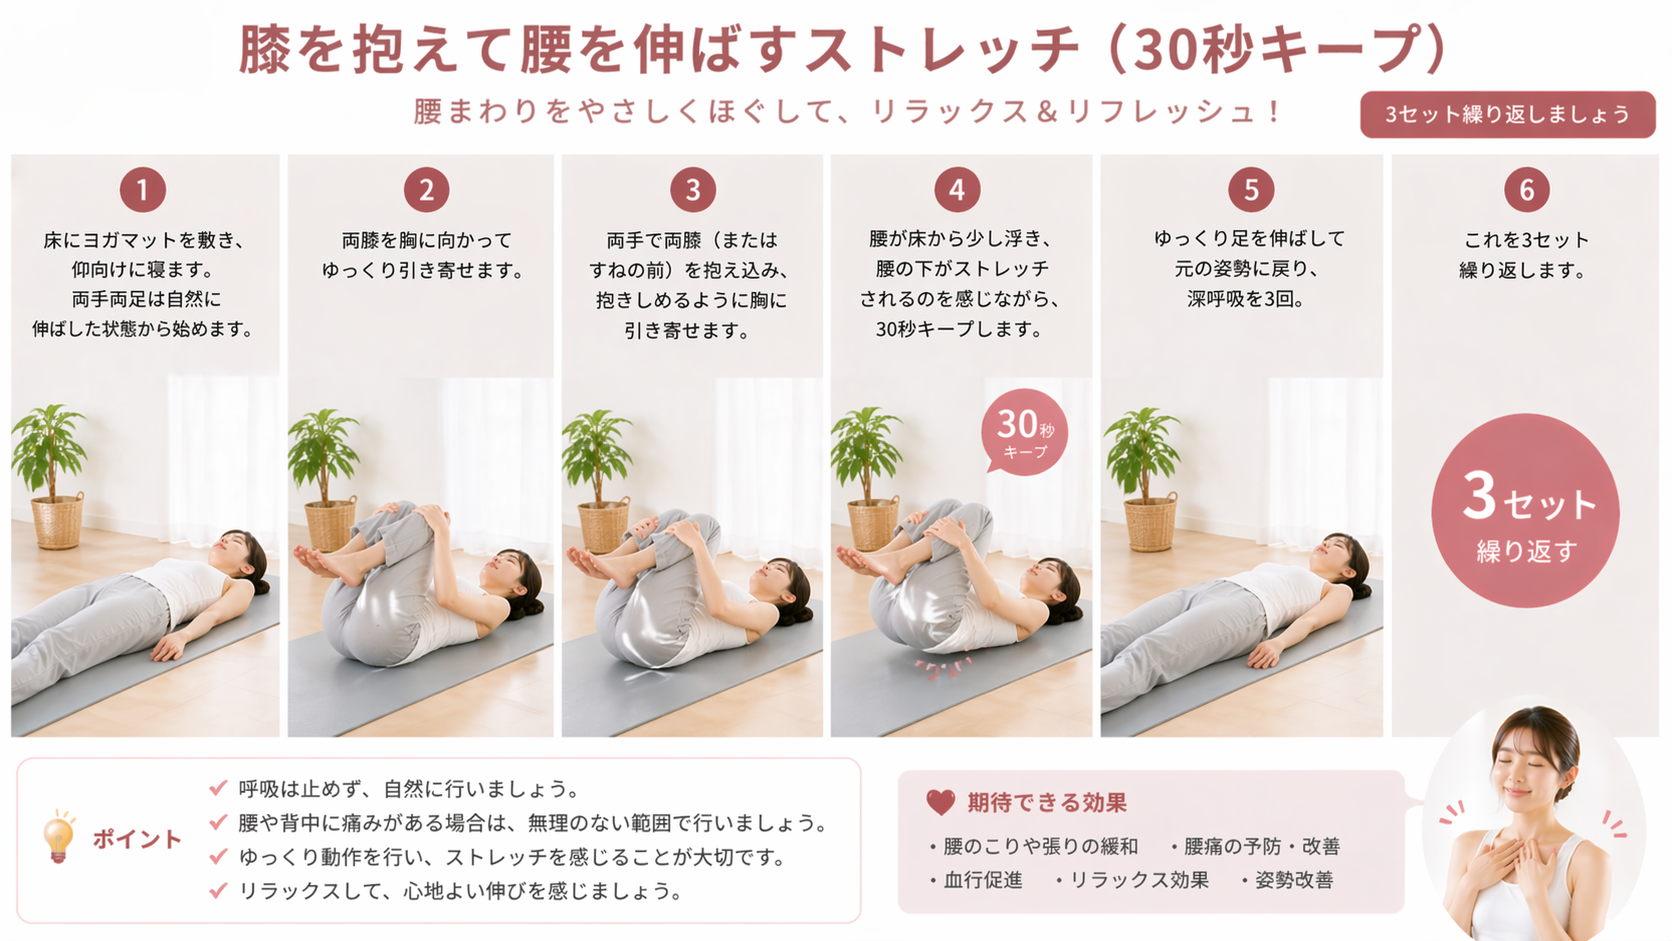
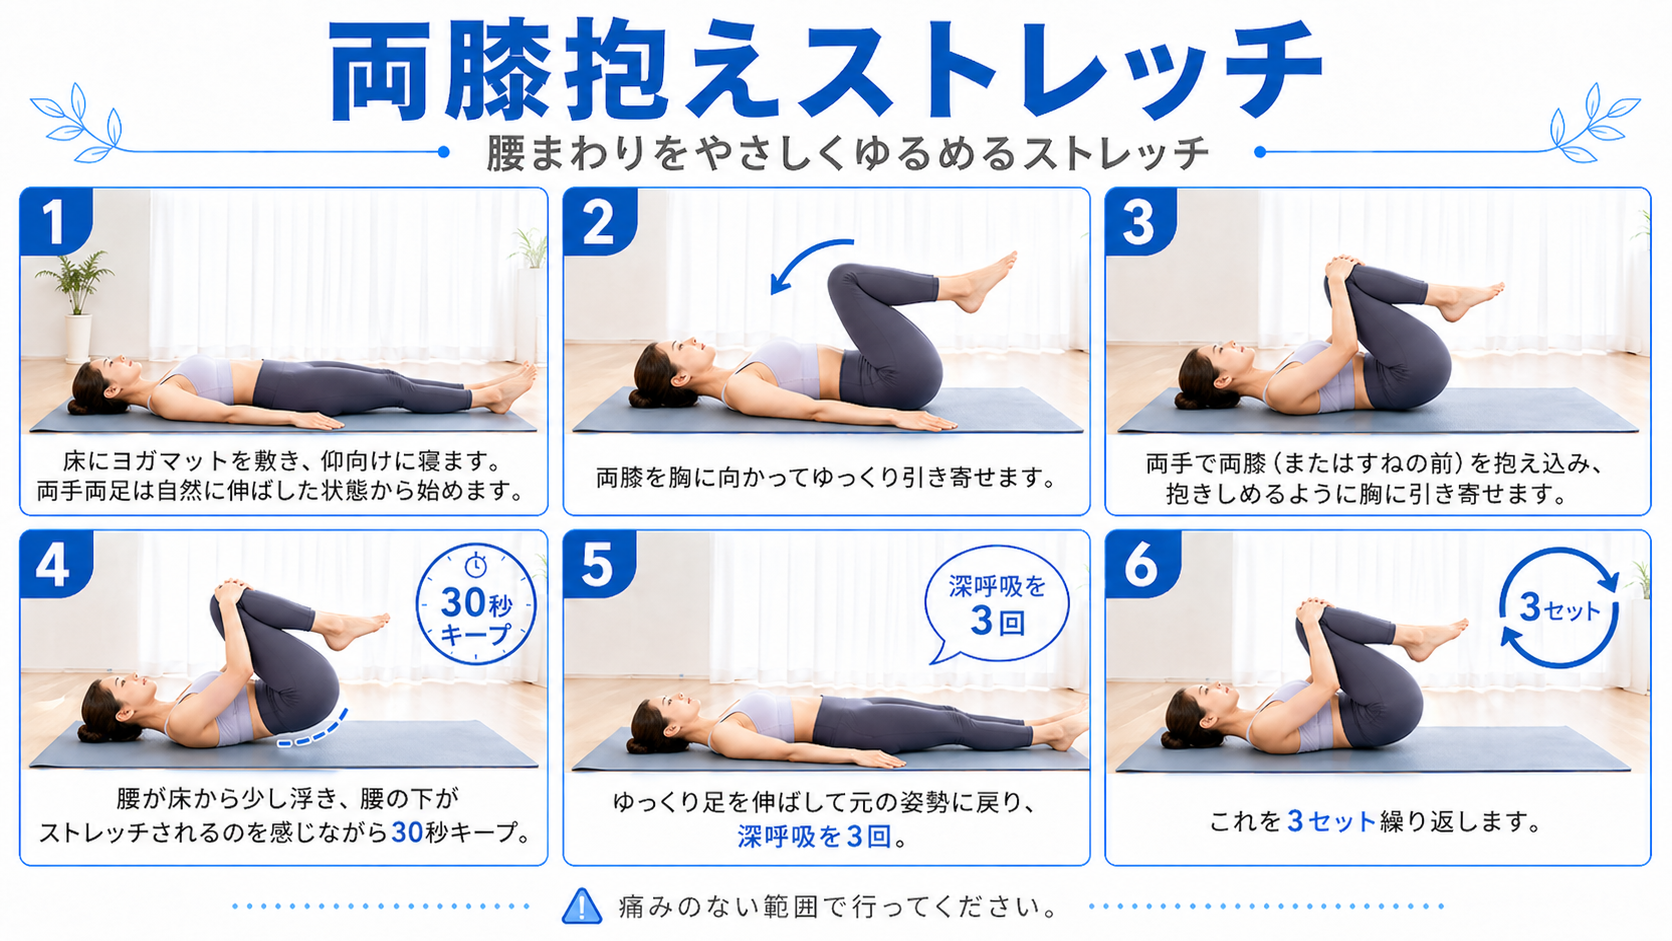
feat: 腰痛ストレッチ画像3種(back-1〜3)を新バージョンに更新+back-3を有効化
新規プロ仕様画像に差し替え:
- back-1.png: 両膝抱えストレッチ
- back-2.png: チャイルドポーズ
- back-3.png: キャット&カウ (新規追加)

chat-images.ts:
- back-3 を ready: true に変更
- 説明文を充実化(ガイコツ先生がチャットで自然に提案できるように)

これでガイコツ先生が腰痛相談時に back-1〜3 のいずれかを
適切に選んで会話に画像を埋め込めるようになる。

diff --git a/src/app/lib/chat-images.ts b/src/app/lib/chat-images.ts
@@ -128,9 +128,17 @@ export const CHAT_IMAGES: ChatImage[] = [
     ready: true,
   },
 
+  // back-3 (完成済み)
+  {
+    id: "back-3",
+    path: "/stretches/back-3.png",
+    desc: "キャット&カウ。四つん這いから背中を反らす(カウ)→丸める(キャット)を呼吸とセットで繰り返し、背骨1つ1つを動かす。",
+    symptoms: ["back"],
+    category: "stretch",
+    ready: true,
+  },
+
   // ========== 未完成・準備中(完成したら ready: true に変更) ==========
-  // back-3〜5
-  { id: "back-3", path: "/stretches/back-3.png", desc: "キャット&カウ。", symptoms: ["back"], category: "stretch", ready: false },
   { id: "back-4", path: "/stretches/back-4.png", desc: "ヒップリフト。", symptoms: ["back"], category: "stretch", ready: false },
   { id: "back-5", path: "/stretches/back-5.png", desc: "ハムストリングス伸ばし。", symptoms: ["back"], category: "stretch", ready: false },
 
